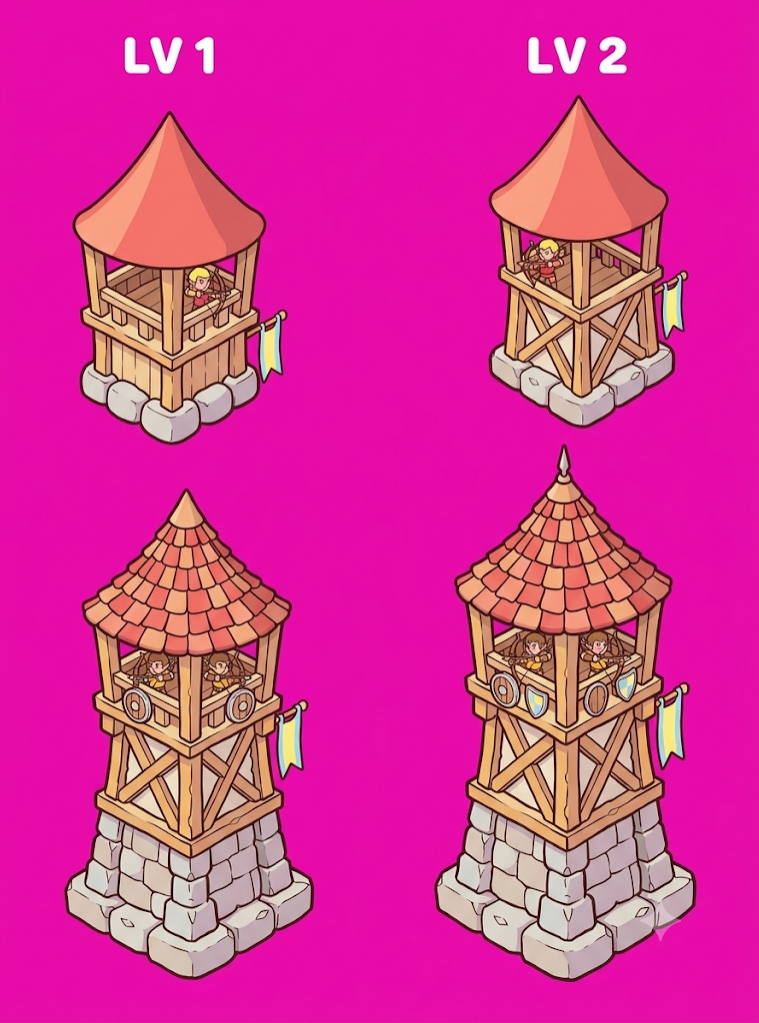
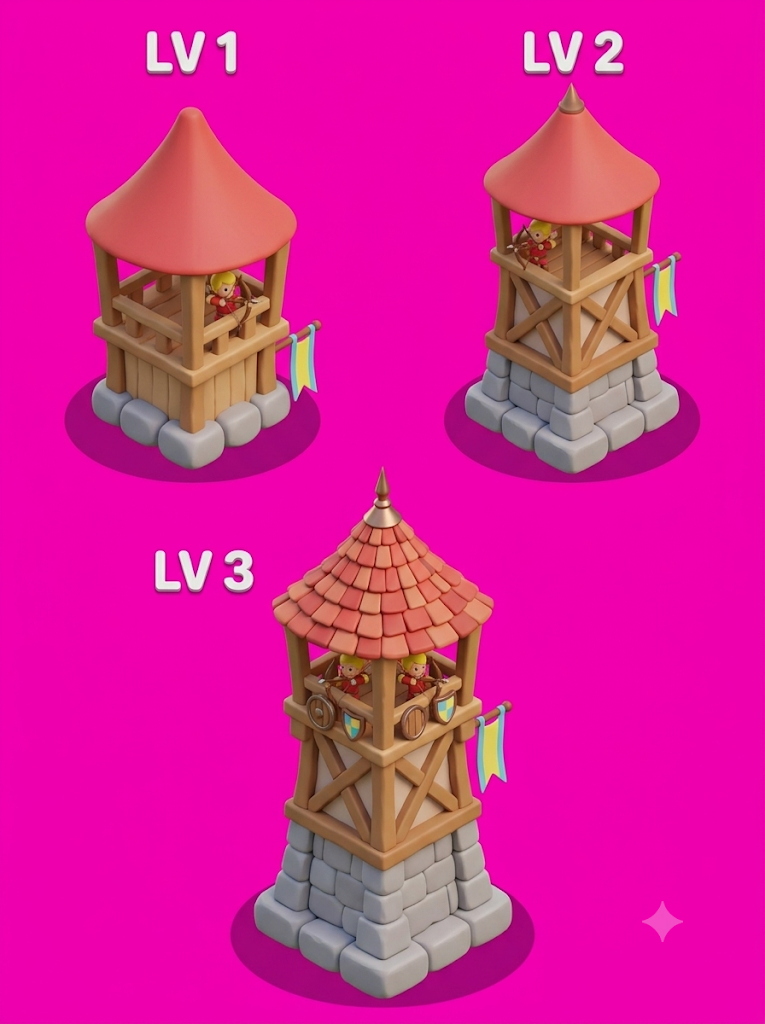
3D 스타일 그림 교체: 도깨비불, 늑대, 궁수탑 1~3, 용, 기사

diff --git a/scripts/slice-dragon-knight.py b/scripts/slice-dragon-knight.py
@@ -27,13 +27,17 @@ SETS = {
     'knight': {'height': 112, 'frames': [('h_knight', (150, 320, 360, 572)), ('h_knight_atk', (540, 320, 900, 572))]},
 }
 PAD = 6
+# 칼 효과선에 붙어 있는 "SLASH" 같은 글자는 덩어리가 이어져 있어서 안 지워진다: 시트 좌표 영역을 미리 투명 처리한다 (x0, y0, x1, y1)
+ERASE = {'h_knight_atk': (770, 478, 900, 525)}
 # 분홍색 칼 궤적 효과가 반투명 회색 얼룩으로 남는 컷: 투명도를 이 구간에서 0~1 로 다시 펴서 반투명한 효과만 지운다 (게임에서 따로 그린다)
 SHARPEN = {'h_knight_atk': (0.6, 0.92)}
 
 
-def extract(img: Image.Image, box, sharpen=None) -> Image.Image:
+def extract(img: Image.Image, box, sharpen=None, erase=None) -> Image.Image:
     cell = np.array(img.crop(box).convert('RGB'))
     a = keyed_alpha(cell)
+    if erase:
+        a[max(0, erase[1] - box[1]):max(0, erase[3] - box[1]), max(0, erase[0] - box[0]):max(0, erase[2] - box[0])] = 0.0
     a = a * dilate(largest_component(a > 0.5), 2)
     if sharpen:
         lo, hi = sharpen
@@ -47,7 +51,7 @@ def main():
     img = Image.open(SRC)
     os.makedirs(OUT, exist_ok=True)
     for cname, cfg in SETS.items():
-        frames = [(name, extract(img, box, SHARPEN.get(name))) for name, box in cfg['frames']]
+        frames = [(name, extract(img, box, SHARPEN.get(name), ERASE.get(name))) for name, box in cfg['frames']]
         scale = cfg['height'] / frames[0][1].height                 # 첫 장 높이를 기준으로 같은 비율로 줄인다
         rs, cxs = [], []
         for name, f in frames:

diff --git a/scripts/slice-archer-tower.py b/scripts/slice-archer-tower.py
@@ -19,9 +19,9 @@ HERE = os.path.dirname(os.path.abspath(__file__))
 SRC = sys.argv[1] if len(sys.argv) > 1 else os.path.join(HERE, '..', 'docs', 'art', 'source', 'archer_123.png')
 OUT = sys.argv[2] if len(sys.argv) > 2 else os.path.join(HERE, '..', 'public', 'skins', 'png')
 
-# 시트에서 각 그림이 있는 영역 (x0, y0, x1, y1). 윗줄과 아랫줄 사이 빈 틈(왼쪽 y 440~490, 오른쪽 y 430~445)에서 나눈다.
-# 오른쪽 아래 탑의 뾰족한 끝이 오른쪽 위 칸에 걸쳐 있지만 LV2 와 떨어져 있어서 가장 큰 덩어리만 남기면 사라진다.
-CROPS = {'t_archer_1': (0, 0, 380, 465), 't_archer_2': (380, 0, 759, 440), 't_archer_3': (0, 465, 380, 1023)}
+# 시트에서 각 그림이 있는 영역 (x0, y0, x1, y1). LV3 탑이 가운데 아래에 있고 뾰족한 끝이 윗줄 높이(y 465)까지 올라오므로
+# 칸을 반으로 나누지 않고 그림마다 영역을 잡는다. 옆 그림이나 글자 조각이 영역에 걸쳐도 가장 큰 덩어리만 남기면 사라진다.
+CROPS = {'t_archer_1': (0, 0, 378, 478), 't_archer_2': (380, 0, 765, 478), 't_archer_3': (190, 440, 600, 1024)}
 LV1_H = 132        # LV1 탑 높이(2배 해상도 기준, 화면에서는 66px). 나머지는 같은 비율로 줄인다
 FOOT = 0.90        # 탑 바닥이 이미지 높이의 몇 % 지점에 오게 할지 (게임의 기준점 y 와 같다)
 PAD = 8
